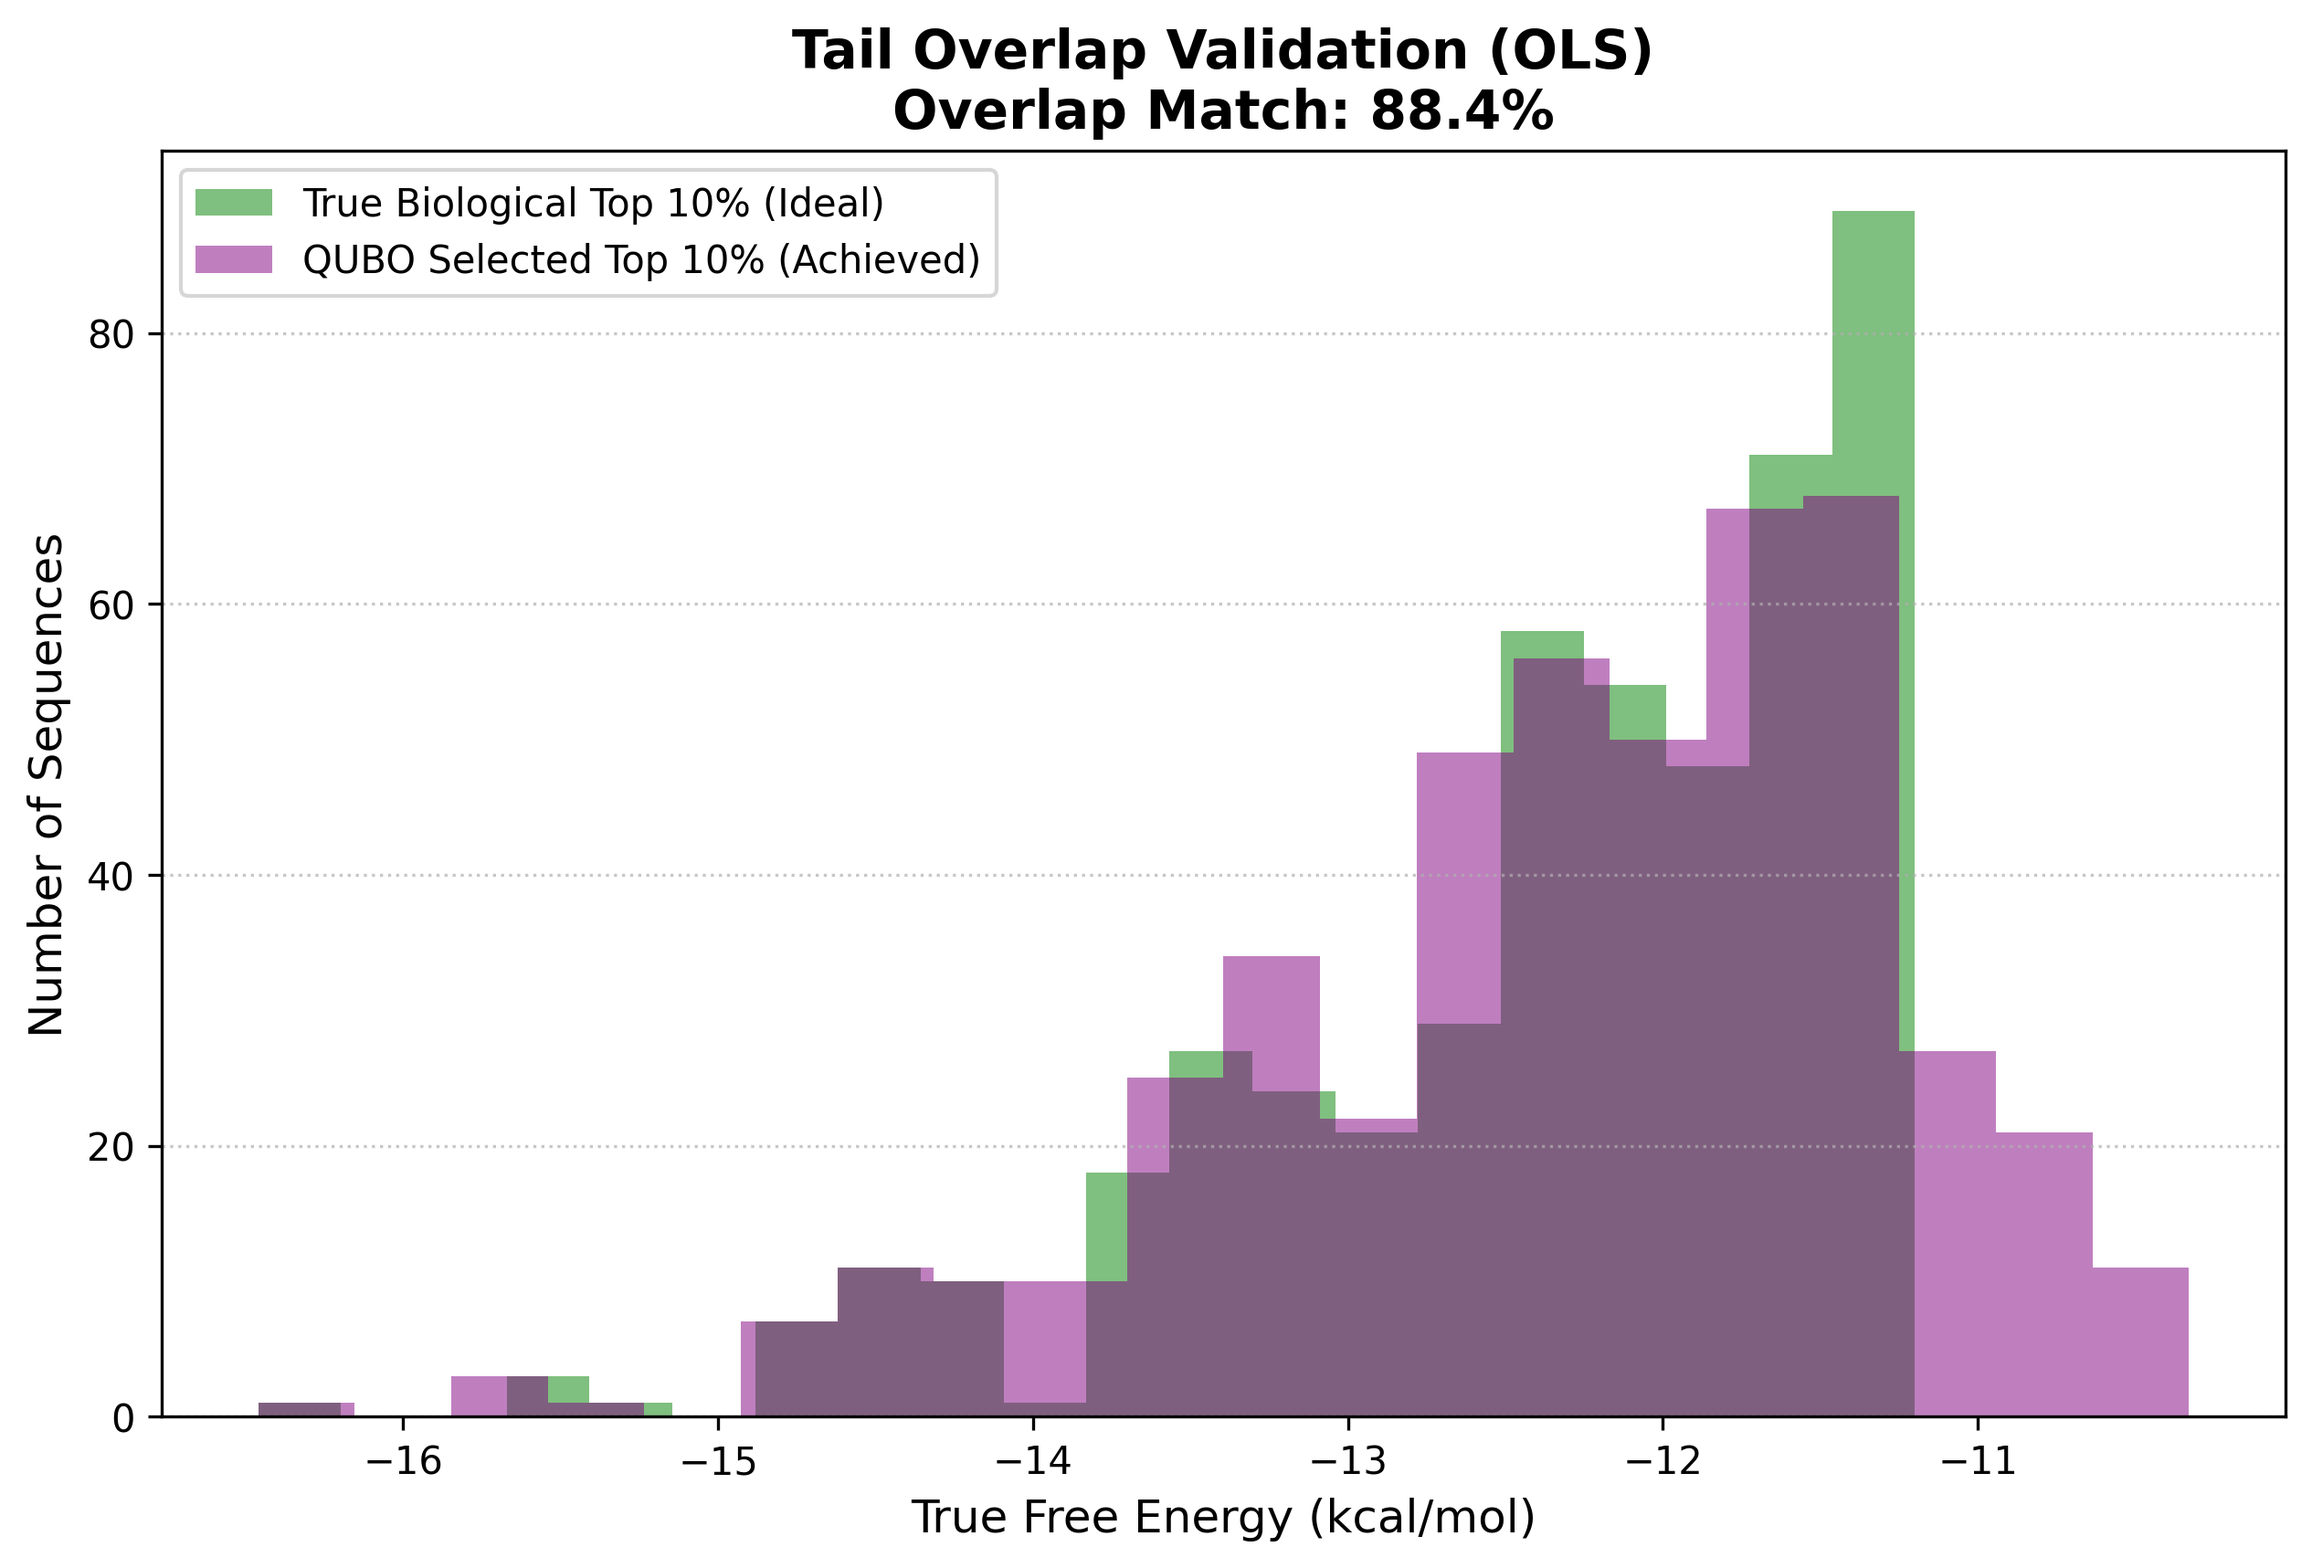
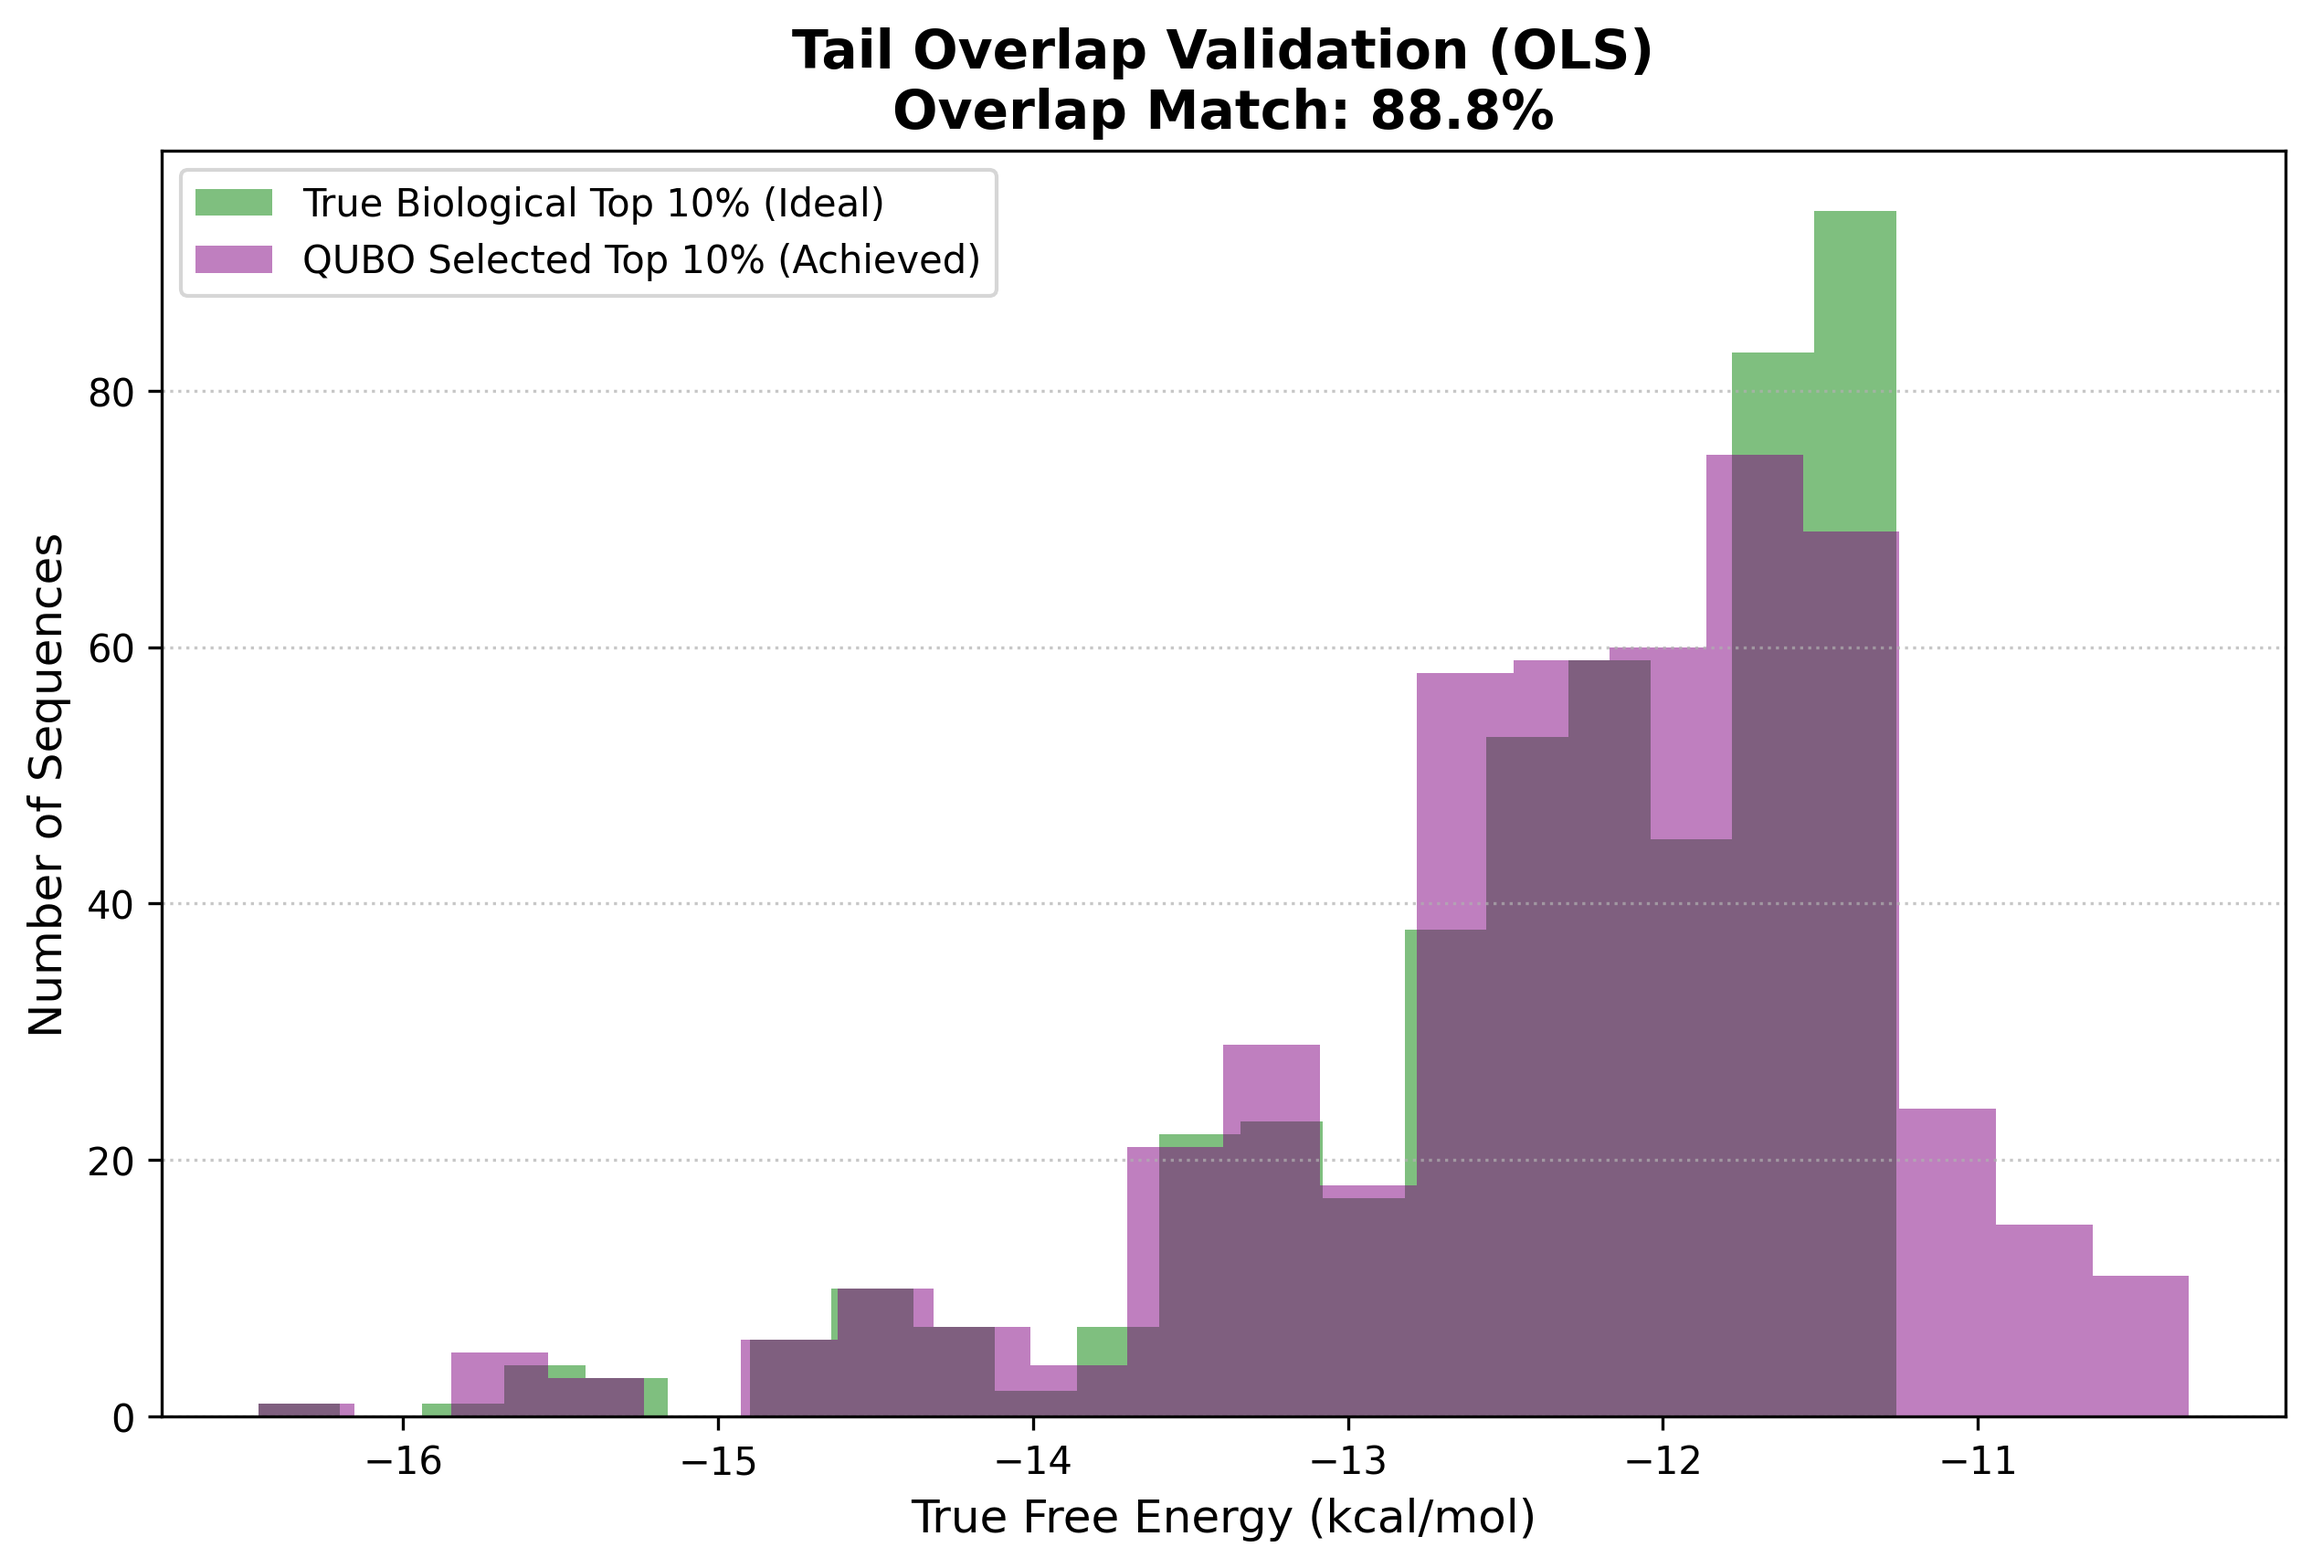
add vienna and qubo correlation of the sequences

diff --git a/phase9_forward_folding.py b/phase9_forward_folding.py
@@ -7,6 +7,9 @@ from phase1_rules import extract_stems
 from phase8_paired_sampling import generate_random_pairs, calculate_turner_from_pairs, evaluate_qubo_from_pairs
 from phase3_coef_fitter import calculate_qubo_coeffs
 from phase4_qubo_builder import build_approx_qubo
+from scipy.stats import spearmanr
+import os
+import matplotlib.pyplot as plt
 
 def calculate_mirror_penalty(sequence , target_structure):
     """
@@ -156,7 +159,125 @@ def run_forward_folding_pipeline(target_structure ,initial_samples=5000 ,variati
         print(f"Successful foldings back to target : {succcess_count}")
         print(f"Success Rate                       : {succcess_rate:.2f}%")
 
+def run_correlation(target_structure, num_samples=1000, math_method="ols"):
+    print(f"\n==== Phase 9 Correlation (with Realistic Loops) ====")
+    print(f"Target Structure: {target_structure}")
+    
+    stems = extract_stems(target_structure)
+    
+    print("1. Building QUBO model...")
+    c_coeffs = calculate_qubo_coeffs(method=math_method)
+    Q_dict, offset = build_approx_qubo(stems, c_coeffs)
+    
+    print("2. Generating random pair combinations...")
+    # Generate random stem pairings
+    samples = generate_random_pairs(stems, num_samples)
+    
+    combined_results = []
+    
+    print("3. Generating full sequences and evaluating Vienna energies...")
+    for stem_pairs_list, flat_tuple in samples:
+        # 1. Score QUBO on the bare pair assignments
+        q_energy = evaluate_qubo_from_pairs(stem_pairs_list, stems, Q_dict, offset)
+        
+        # 2. Generate the safest realistic full sequence (best of pool to avoid mirror pairings)
+        # We only need 1 sample back since it picks the one with the lowest mirror penalty
+        best_seqs = generate_full_sequence(target_structure, flat_tuple, num_samples=1)
+        if not best_seqs:
+            continue
+        full_seq = best_seqs[0]
+        
+        # 3. Calculate Vienna energy on the target structure
+        fc = RNA.fold_compound(full_seq)
+        v_energy = fc.eval_structure(target_structure)
+        
+        combined_results.append({
+            'seq': full_seq,
+            'pairs': flat_tuple,
+            'qubo': q_energy,
+            'vienna': v_energy
+        })
+
+    # Sort by QUBO to mimic reading from a quantum computer
+    qubo_sorted = sorted(combined_results, key=lambda x: x['qubo'])
+        # Calculate Deviations (Vienna - QUBO)
+    errors = []
+    for res in qubo_sorted:
+        error = res['vienna'] - res['qubo']
+        res['error'] = error
+        errors.append(error)
+        
+    errors = np.array(errors)
+    mean_error = np.mean(errors)
+    std_error = np.std(errors)
+    max_error = np.max(errors)
+    min_error = np.min(errors)
+    
+    print("\n--- DEVIATION ANALYSIS (Vienna - QUBO) ---")
+    print(f"Mean Deviation (Average Loop Penalty) : {mean_error:.4f} kcal/mol")
+    print(f"Standard Deviation of Error (Spread)  : {std_error:.4f} kcal/mol")
+    print(f"Min Deviation: {min_error:.4f} | Max Deviation: {max_error:.4f}")
+    
+    print("\n[Interpretation]")
+    if std_error < 1.5:
+        print("-> EXCELLENT: The standard deviation is low! The loop penalties are consistent, meaning QUBO preserves the correct ranking of sequences.")
+    elif std_error < 3.0:
+        print("-> OKAY: There is moderate variance in loop penalties. QUBO rankings might be slightly scrambled compared to Vienna, but still a useful approximation.")
+    else:
+        print("-> POOR: The standard deviation is high! The loop energies vary so wildly that the QUBO model's predictions are getting heavily scrambled.")
+ 
+    all_qubo = [x['qubo'] for x in qubo_sorted]
+    all_vienna = [x['vienna'] for x in qubo_sorted]
+    
+    overall_corr, _ = spearmanr(all_vienna, all_qubo)
+    
+    ten_percent_idx = max(1, int(len(qubo_sorted) * 0.10))
+    b10_qubo = all_qubo[:ten_percent_idx]
+    b10_vienna = all_vienna[:ten_percent_idx]
+    b10_corr, _ = spearmanr(b10_vienna, b10_qubo)
+    
+    print("\n--- RESULTS ---")
+    print(f"Overall Spearman Correlation (Vienna vs QUBO): {overall_corr:.4f}")
+    print(f"Bottom 10% Spearman Correlation (Vienna vs QUBO): {b10_corr:.4f}")
+    
+    # Plotting
+    save_dir = "correlation_plots"
+    os.makedirs(save_dir, exist_ok=True)
+    
+    plt.figure(figsize=(10, 8))
+    plt.scatter(b10_vienna, b10_qubo, color='#2ca02c', alpha=0.7, s=50, edgecolor='black')
+    
+    # Trendline
+    z_v = np.polyfit(b10_vienna, b10_qubo, 1)
+    p_v = np.poly1d(z_v)
+    plt.plot(b10_vienna, p_v(b10_vienna), "r--", alpha=0.8, label=f"Trendline")
+
+    plt.title(f"Phase 9 (Realistic Loops): Lowest 10% QUBO vs Vienna ({math_method.upper()})\nSpearman Correlation: {b10_corr:.4f}", fontsize=14, fontweight='bold')
+    plt.xlabel("Vienna Energy [kcal/mol]", fontsize=12)
+    plt.ylabel("QUBO Approximated Energy [kcal/mol]", fontsize=12)
+    plt.grid(True, linestyle=':', alpha=0.7)
+    plt.legend()
+    plt.savefig(os.path.join(save_dir, f"Phase9_Vienna_Corr_{target_structure}.png"), dpi=300, bbox_inches='tight')
+    # plot of deviations
+        # PLOT 2: The Deviation Histogram
+    plt.figure(figsize=(8, 5))
+    plt.hist(errors, bins=30, color='purple', alpha=0.7, edgecolor='black')
+    plt.axvline(mean_error, color='red', linestyle='dashed', linewidth=2, label=f'Mean: {mean_error:.2f}')
+    
+    plt.title(f"Deviation Spread (Vienna - QUBO)\nStd Dev: {std_error:.2f} kcal/mol", fontsize=14, fontweight='bold')
+    plt.xlabel("Energy Difference (kcal/mol)", fontsize=12)
+    plt.ylabel("Frequency", fontsize=12)
+    plt.grid(axis='y', linestyle=':', alpha=0.7)
+    plt.legend()
+    plt.savefig(os.path.join(save_dir, f"Phase9_Deviation_{target_structure}.png"), dpi=300, bbox_inches='tight')
+    plt.close()
+
+    plt.close()
+    
+    print(f"Saved plot to {save_dir}/Phase9_Vienna_Corr_{target_structure}.png")
+
 if __name__ == "__main__":
     target_list = ["..............(((((.....)))))", "(((...)))", "...((((((.........))))))."]
     for i in target_list:
-        run_forward_folding_pipeline(i, initial_samples=5000, variations=10)
+        run_forward_folding_pipeline(i, initial_samples=1000, variations=10)
+        run_correlation(i, num_samples=1000)

diff --git a/phase6_correlation_sampling.py b/phase6_correlation_sampling.py
@@ -10,13 +10,13 @@ from phase2_turner_energy import calculate_true_turner_energy
 from phase3_coef_fitter import calculate_qubo_coeffs
 from phase4_qubo_builder import build_approx_qubo
 
-# def get_vienna_energy(sequence, structure):
-#     """
-#     Calculates the exact free energy of a sequence folded into a specific
-#     structure using the official vienna packge
-#     """
-#     fc = RNA.fold_compound(sequence)
-#     return fc.eval_structure(structure)
+def get_vienna_energy(sequence, structure):
+    """
+    Calculates the exact free energy of a sequence folded into a specific
+    structure using the official vienna packge
+    """
+    fc = RNA.fold_compound(sequence)
+    return fc.eval_structure(structure)
 
 def generate_random_sequences(target_structure , num_samples):
     """
@@ -96,24 +96,25 @@ def run_statistical_sampling(target_structure, num_samples,math_method="ols"):
     combined_results = []
     true_energies =[]
     qubo_energies = []
+    vienna_energies =[]
 
     # 3. Score every sequence
     print("Scoring sequences with HUBO and QUBO.")
     for seq in sequences:
         # score HUBO
         t_energy = calculate_true_turner_energy(stems,seq)
-        # t_energy = get_vienna_energy(seq, target_structure)
         true_energies.append(t_energy)
+        v_energy = get_vienna_energy(seq,target_structure)
+        vienna_energies.append(v_energy)
 
         # Score QUBO
         q_energy = evaluate_sequence_in_qubo(seq, stems, Q_dict,offset)
         qubo_energies.append(q_energy)
-        combined_results.append({'seq': seq, 'true':t_energy,'qubo':q_energy})
+        combined_results.append({'seq': seq, 'true':t_energy,'qubo':q_energy, 'vienna':v_energy})
 
     # QUARTILE AND BOTTOM 10%
     # sort everything by QUBO energy (real quantum comp. read out the lowest qubo first)
-
-    qubo_sorted = sorted(combined_results, key= lambda x: x['qubo'])
+    qubo_sorted = sorted(combined_results, key= lambda x: x['qubo'])    
 
     n_seq = len(qubo_sorted)
     q_size = n_seq // 4 
@@ -122,10 +123,14 @@ def run_statistical_sampling(target_structure, num_samples,math_method="ols"):
     # Extract overall arrays 
     all_true = [x['true'] for x in qubo_sorted]
     all_qubo = [x['qubo'] for x in qubo_sorted]
+    all_vienna = [x['vienna'] for x in qubo_sorted]
+    
     overall_corr , _ = spearmanr(all_true, all_qubo)
+    vienna_corr, _ = spearmanr(all_vienna,all_qubo)
 
     print("\n ------ QUARTILE BREAKDOWN -------")
     print(f"Overall Full Landscape Correlation : {overall_corr: .4f}")
+    print(f"Overall Full Landscape Correlation (Vienna): {vienna_corr: .4f}")
 
     for i in range(4):
         chunk = qubo_sorted[i*q_size:(i+1)*q_size]
@@ -134,13 +139,19 @@ def run_statistical_sampling(target_structure, num_samples,math_method="ols"):
         corr,_ = spearmanr(c_true,c_qubo)
         print(f"Quartile {i+1} (Qubo energies {c_qubo[0]:.2f} to {c_qubo[-1]:.2f}):spearman = {corr:.4f}")
 
+
     # Isolate bottom 10%
     bottom_10_chunk = qubo_sorted[:ten_percent_idx]
     b10_true = [x['true'] for x in bottom_10_chunk]
     b10_qubo = [x['qubo'] for x in bottom_10_chunk]
+    b10_vienna = [x['vienna'] for x in bottom_10_chunk]
+    
     b10_corr,_ = spearmanr(b10_true,b10_qubo)
+    b10_vienna_corr , _ = spearmanr(b10_vienna,b10_qubo)
+
     print("\n--- THE 10% GROUND STATE TEST ---")
     print(f"Spearman Correlation (Lowest 10% of QUBO): {b10_corr:.4f}")
+    print(f"Spearman Correlation (Lowest 10% of QUBO (vienna)): {b10_vienna_corr:.4f}")
 
     # Tail overlap 
     # Are the sequences in the lowest 10% of QUBO space the exact same sequences in the lowest 10% of biological space
@@ -237,6 +248,23 @@ def run_statistical_sampling(target_structure, num_samples,math_method="ols"):
     plt.grid(True, linestyle=':', alpha=0.7)
     plt.legend()
     plt.savefig(os.path.join(save_dir, f"Bottom10_{target_structure}_{math_method}.png"), dpi=300, bbox_inches='tight')
+    plt.close()
+
+        # PLOT 1.5: The 10% Zoom-in for Vienna vs QUBO
+    plt.figure(figsize=(10, 8))
+    plt.scatter(b10_vienna, b10_qubo, color='#2ca02c', alpha=0.7, s=50, edgecolor='black')
+    
+    # Trendline for visual aid
+    z_v = np.polyfit(b10_vienna, b10_qubo, 1)
+    p_v = np.poly1d(z_v)
+    plt.plot(b10_vienna, p_v(b10_vienna), "r--", alpha=0.8, label=f"Trendline")
+
+    plt.title(f"Ground State Focus: Lowest 10% QUBO vs Vienna ({math_method.upper()})\nSpearman Correlation: {b10_vienna_corr:.4f}", fontsize=14, fontweight='bold')
+    plt.xlabel("Vienna Energy [kcal/mol]", fontsize=12)
+    plt.ylabel("QUBO Approximated Energy [kcal/mol]", fontsize=12)
+    plt.grid(True, linestyle=':', alpha=0.7)
+    plt.legend()
+    plt.savefig(os.path.join(save_dir, f"Bottom10_Vienna_{target_structure}_{math_method}.png"), dpi=300, bbox_inches='tight')
     plt.close()
 
     # PLOT 2: Tail Overlap Histogram

diff --git a/phase7.py b/phase7.py
@@ -164,4 +164,4 @@ if __name__ == "__main__":
     # target_1 = "...((((((.........))))))." # true structure :GCCGUCGGC
     # methods : ols , l1 , minimax , rank
     # new methods : huber, wls,margin_rank
-    run_statistical_sampling(target_1,num_samples=5000,math_method="ols")
+    run_statistical_sampling(target_1,num_samples=100,math_method="ols")

diff --git a/phase8_paired_sampling.py b/phase8_paired_sampling.py
@@ -140,4 +140,4 @@ if __name__ == "__main__":
     # Test on a few structures
     target_list = ["..............(((((.....)))))", "(((...)))", "...((((((.........))))))."]
     for i in target_list:
-        run_paired_sampling(i, num_samples=5000, math_method="ols")
+        run_paired_sampling(i, num_samples=100, math_method="ols")
